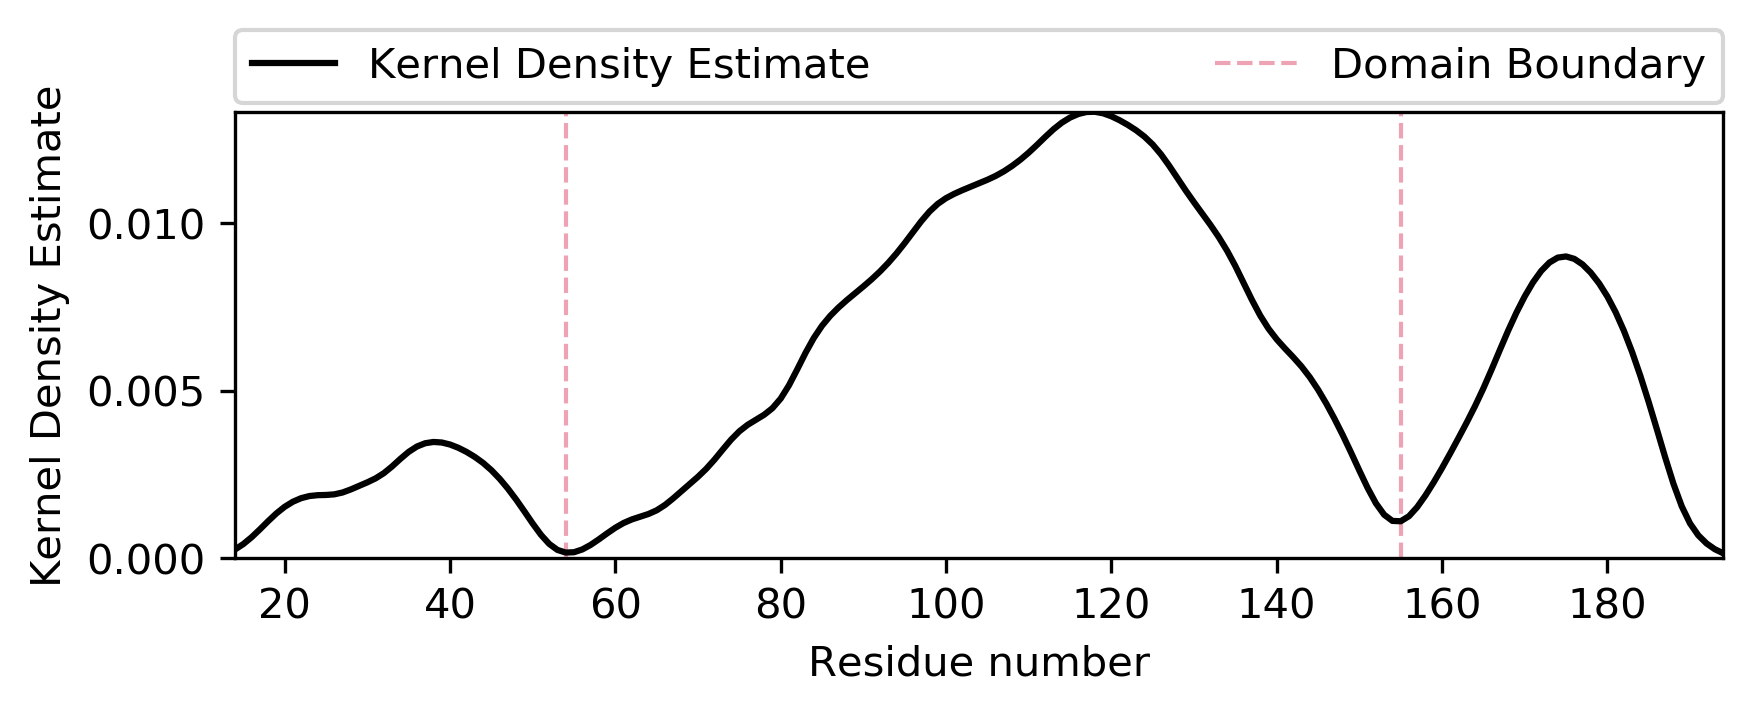
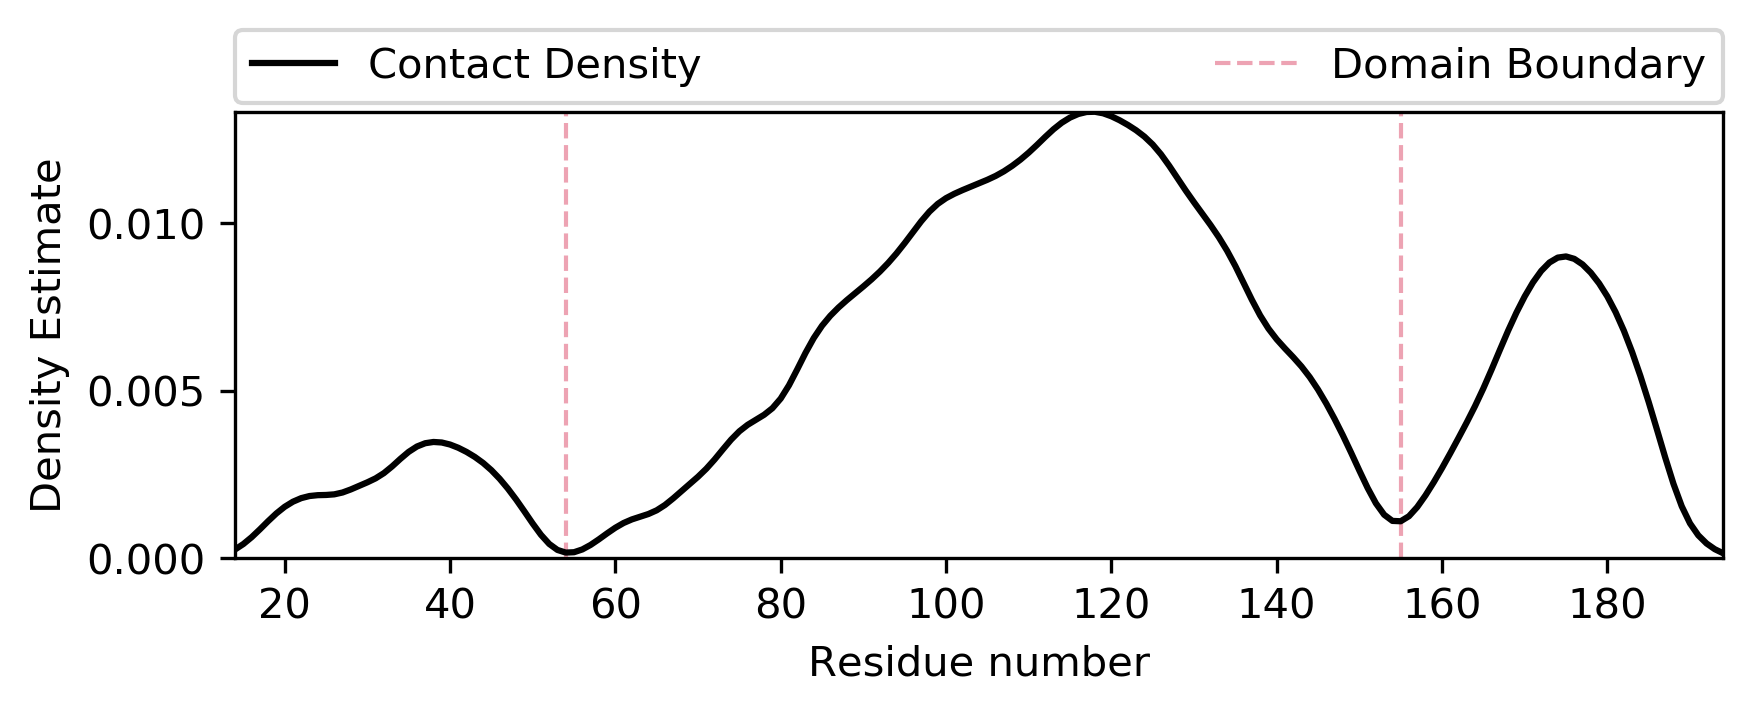
refactored contactdensity plot slightly to remove dependency on SciPy

Changed region(s): [[0.0, 0.1232, 0.0615, 0.8319], [0.2153, 0.0616, 0.492, 0.1232]]

diff --git a/conkit/plot/tests/test_tools.py b/conkit/plot/tests/test_tools.py
@@ -11,57 +11,77 @@ import unittest
 
 class Test(unittest.TestCase):
 
-    def test_points_on_circle_1(self):
-        coords = tools.points_on_circle(0)
+    def test_find_minima_1(self):
+        with self.assertRaises(ValueError):
+            tools.find_minima([])
+
+    def test_find_minima_2(self):
+        with self.assertRaises(ValueError):
+            tools.find_minima([5])
+
+    def test_find_minima_3(self):
+        self.assertEqual([1], tools.find_minima([5, 4, 5], order=1))
+
+    def test_find_minima_4(self):
+        self.assertEqual([2, 4], tools.find_minima([4, 5, 3, 5, 2, 6], order=1))
+
+    def test_find_minima_5(self):
+        self.assertEqual([4], tools.find_minima([4, 5, 3, 5, 2, 6], order=3))
+
+    def test_find_minima_6(self):
+        self.assertEqual([4], tools.find_minima([4, 5, 3, 5, 2, 6], order=10))
+
+    def test_get_points_on_circle_1(self):
+        coords = tools.get_points_on_circle(0)
         self.assertEqual([[]], coords)
 
-    def test_points_on_circle_2(self):
-        coords = tools.points_on_circle(1)
+    def test_get_points_on_circle_2(self):
+        coords = tools.get_points_on_circle(1)
         self.assertEqual([[1., 0.]], coords)
 
-    def test_points_on_circle_3(self):
-        coords = tools.points_on_circle(2)
+    def test_get_points_on_circle_3(self):
+        coords = tools.get_points_on_circle(2)
         self.assertEqual([2., 0.], coords[0])
         self.assertEqual([-2., 0], coords[1])
 
-    def test_points_on_circle_4(self):
-        coords = tools.points_on_circle(3)
+    def test_get_points_on_circle_4(self):
+        coords = tools.get_points_on_circle(3)
         self.assertEqual([3., 0.], coords[0])
         self.assertEqual([-1.5, 2.598076], coords[1])
         self.assertEqual([-1.5, -2.598076], coords[2])
 
-    def test_points_on_circle_5(self):
-        coords = tools.points_on_circle(4)
+    def test_get_points_on_circle_5(self):
+        coords = tools.get_points_on_circle(4)
         self.assertEqual([4., 0.], coords[0])
         self.assertEqual([0., 4.], coords[1])
         self.assertEqual([-4., 0.], coords[2])
         self.assertEqual([0, -4], coords[3])
 
-    def test_points_on_circle_6(self):
-        coords = tools.points_on_circle(4, h=2)
+    def test_get_points_on_circle_6(self):
+        coords = tools.get_points_on_circle(4, h=2)
         self.assertEqual([6., 0.], coords[0])
         self.assertEqual([2., 4.], coords[1])
         self.assertEqual([-2., 0.], coords[2])
         self.assertEqual([2, -4], coords[3])
 
-    def test_points_on_circle_7(self):
-        coords = tools.points_on_circle(4, k=-3)
+    def test_get_points_on_circle_7(self):
+        coords = tools.get_points_on_circle(4, k=-3)
         self.assertEqual([4., -3.], coords[0])
         self.assertEqual([0., 1.], coords[1])
         self.assertEqual([-4., -3.], coords[2])
         self.assertEqual([0, -7], coords[3])
 
-    def test_radius_around_circle_1(self):
+    def test_get_radius_around_circle_1(self):
         p1, p2 = [0., 0.], [0., 0]
-        self.assertEqual(0.0, tools.radius_around_circle(p1, p2)) 
+        self.assertEqual(0.0, tools.get_radius_around_circle(p1, p2)) 
 
-    def test_radius_around_circle_2(self):
+    def test_get_radius_around_circle_2(self):
         p1, p2 = [2., 0.], [-2., 0]
-        self.assertEqual(1.6, tools.radius_around_circle(p1, p2)) 
+        self.assertEqual(1.6, tools.get_radius_around_circle(p1, p2)) 
 
-    def test_radius_around_circle_3(self):
+    def test_get_radius_around_circle_3(self):
         p1, p2 = [2., 1.], [-2., 4]
-        self.assertAlmostEqual(2.0, tools.radius_around_circle(p1, p2)) 
+        self.assertAlmostEqual(2.0, tools.get_radius_around_circle(p1, p2)) 
 
     def test__isinstance_1(self):
         h = Contact(1, 2, 2)

diff --git a/conkit/plot/contactdensity.py b/conkit/plot/contactdensity.py
@@ -41,7 +41,9 @@ import numpy as np
 import warnings
 
 from conkit.plot.figure import Figure
-from conkit.plot.tools import ColorDefinitions, _isinstance
+from conkit.plot.tools import ColorDefinitions
+from conkit.plot.tools import find_minima
+from conkit.plot.tools import _isinstance
 
 
 class ContactDensityFigure(Figure):
@@ -100,6 +102,7 @@ class ContactDensityFigure(Figure):
         
         For a full list of options, please refer to 
         :func:`calculate_contact_density() <conkit.core.contactmap.ContactMap.calculate_contact_density>`
+
         """
         return self._bw_method
 
@@ -120,7 +123,7 @@ class ContactDensityFigure(Figure):
         Raises
         ------
         TypeError
-           The hierarchy is not an contact map
+           The hierarchy is not a :obj:`ContactMap <conkit.core.contactmap.ContactMap>`
 
         """
         if hierarchy and _isinstance(hierarchy, "ContactMap"):
@@ -134,31 +137,25 @@ class ContactDensityFigure(Figure):
         self.draw()
 
     def draw(self):
-        dens = np.asarray(self.hierarchy.calculate_contact_density(self.bw_method))
-        residues = np.asarray(list(set(sorted(
-            [c.res1_seq for c in self.hierarchy] + [c.res2_seq for c in self.hierarchy]
-        ))))
-        x = np.arange(residues.min(), residues.max())
-        self.ax.plot(x, dens, linestyle="solid", color=ColorDefinitions.GENERAL, label="Contact Density Estimate", 
-                     zorder=2)
-
-        try:
-            import scipy.signal
-            line_kwargs = dict(linestyle="--", linewidth=1.0, alpha=0.5, color=ColorDefinitions.MISMATCH, zorder=1)
-            for minimum in scipy.signal.argrelmin(dens, order=1)[0]:
-                self.ax.axvline(x[minimum], **line_kwargs)
-            self.ax.axvline(0, ymin=0, ymax=0, label="Domain Boundary", **line_kwargs)
-        except ImportError:
-            warnings.warn("SciPy not installed - cannot determine local minima")
-
+        x, y = self.get_xy_data()
+        self.ax.plot(x, y, linestyle="solid", color=ColorDefinitions.GENERAL, label="Contact Density", zorder=2)
+        line_kwargs = dict(linestyle="--", linewidth=1.0, alpha=0.5, color=ColorDefinitions.MISMATCH, zorder=1)
+        for minimum in find_minima(y, order=1):
+            self.ax.axvline(x[minimum], **line_kwargs)
+        self.ax.axvline(0, ymin=0, ymax=0, label="Domain Boundary", **line_kwargs)
         self.ax.set_xlim(x.min(), x.max())
-        self.ax.set_ylim(0., dens.max())
+        self.ax.set_ylim(0., y.max())
         self.ax.set_xlabel('Residue number')
-        self.ax.set_ylabel('Kernel Density Estimate')
-
+        self.ax.set_ylabel('Density Estimate')
         if self.legend:
             self.ax.legend(bbox_to_anchor=(0., 1.02, 1., .102), loc=3, ncol=3, mode="expand", borderaxespad=0., 
                            scatterpoints=1)
         # TODO: deprecate this in 0.10
         if self._file_name:
             self.savefig(self._file_name, dpi=self._dpi)
+
+    def get_xy_data(self):
+        residues = np.asarray(self.hierarchy.as_list()).flatten()
+        x = np.arange(residues.min(), residues.max())
+        y = np.asarray(self.hierarchy.calculate_contact_density(self.bw_method))
+        return x, y

diff --git a/conkit/plot/tools.py b/conkit/plot/tools.py
@@ -34,6 +34,7 @@ __date__ = "16 Feb 2017"
 __version__ = "0.1"
 
 import numpy as np
+import warnings
 
 from conkit.core.contact import Contact
 from conkit.core.contactmap import ContactMap
@@ -88,6 +89,47 @@ class ColorDefinitions(object):
     }
 
 
+def find_minima(data, order=1):
+    """Find the minima in a 1-D list
+
+    Parameters
+    ----------
+    data : list, tuple
+       A list of values
+    order : int, optional
+       The order, i.e. number of points next to point to consider
+
+    Returns
+    -------
+    list
+       A list of indices for minima
+
+    Warnings
+    --------
+    For multi-dimensional problems, see :func:`scipy.signal.argrelmin`.
+
+    Raises
+    ------
+    ValueError
+       Order needs to be >= 1!
+    ValueError
+       More than two elements required!
+
+    """
+    if order < 1:
+        raise ValueError("Order needs to be >= 1!")
+    data = np.asarray(data)
+    nelements = data.shape[0] 
+    if nelements < 2:
+        raise ValueError("More than two elements required!")
+    results = np.zeros(nelements, dtype=np.bool_)
+    for i in np.arange(1, nelements - 1):
+        start = 0 if i - order < 0 else i - order
+        end = nelements if i + order + 1 > nelements else i + order + 1
+        results[i] = np.all(data[start:i] > data[i]) and np.all(data[i] < data[i + 1:end])
+    return np.where(results)[0].tolist()
+
+
 def get_adjusted_aspect(ax, aspect_ratio):
     """Adjust the aspect ratio
 
@@ -112,7 +154,11 @@ def get_adjusted_aspect(ax, aspect_ratio):
     return float(default_ratio * aspect_ratio)
 
 
-def points_on_circle(radius, h=0, k=0):
+def points_on_circle(*args, **kwargs):
+    warnings.warn("This function has been renamed to get_points_on_circle()")
+    return get_points_on_circle(*args, **kwargs)
+
+def get_points_on_circle(radius, h=0, k=0):
     """Calculate points on a circle with even spacing
 
     Parameters
@@ -140,7 +186,12 @@ def points_on_circle(radius, h=0, k=0):
         return coords.tolist()
 
 
-def radius_around_circle(p1, p2):
+def radius_around_circle(*args, **kwargs):
+    warnings.warn("This function has been renamed to get_radius_around_circle()")
+    return get_radius_around_circle(*args, **kwargs)
+
+
+def get_radius_around_circle(p1, p2):
     """Obtain the radius around a given circle
     
     Parameters
